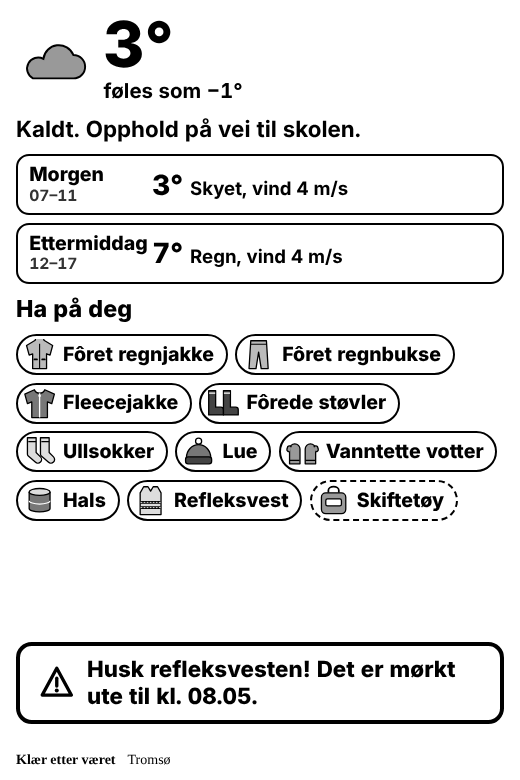
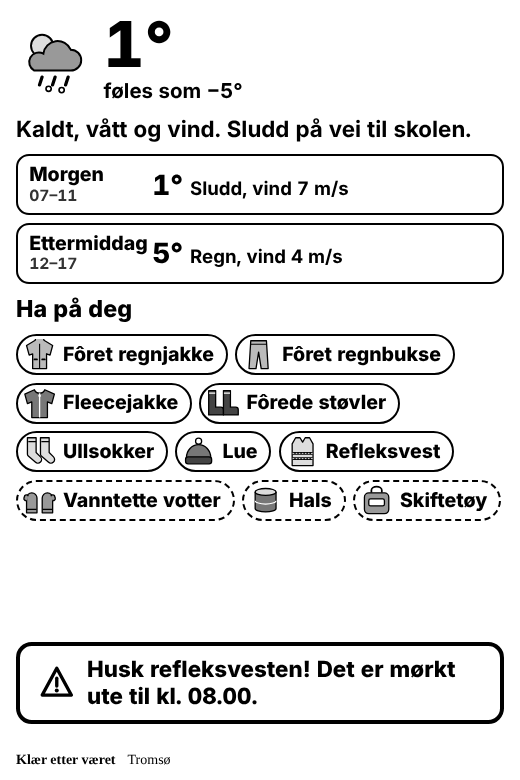
Split the outfit into "Ha på deg" cards and an "I sekken" box
Instead of a label on every card, things to wear are large picture
cards that always fill the width, and things to pack are listed in a
dashed box beside them, aligned with the cards.

Claude-Session: https://claude.ai/code/session_01MfSNdDLEZkeMd6mijxF2wM

diff --git a/README.md b/README.md
@@ -12,8 +12,9 @@ scales down to the original TRMNL and to mashup slots.
 - The weather on the way to school (07–11) and in the afternoon (12–17), with wind chill
   ("føles som").
 - Hour by hour temperature and precipitation, and whether it is dark or light outside.
-- An outfit grid with one label per garment: **Ha på** (wear it on the way to school) or
-  **I sekken** (pack it, because it is only needed later in the day or is optional).
+- What to wear: **Ha på deg** (needed on the way to school) as large picture cards, and a
+  dashed **I sekken** box for things to pack because they are only needed later in the
+  day or are optional.
 - Optionally, up to three calendar events for the day with start and end times, in
   a strip along the bottom (one line each; long titles are cut off). Paste an iCal link (for Google Calendar: Settings → the calendar →
   "Secret address in iCal format") into the plugin's calendar field. Recurring weekly
